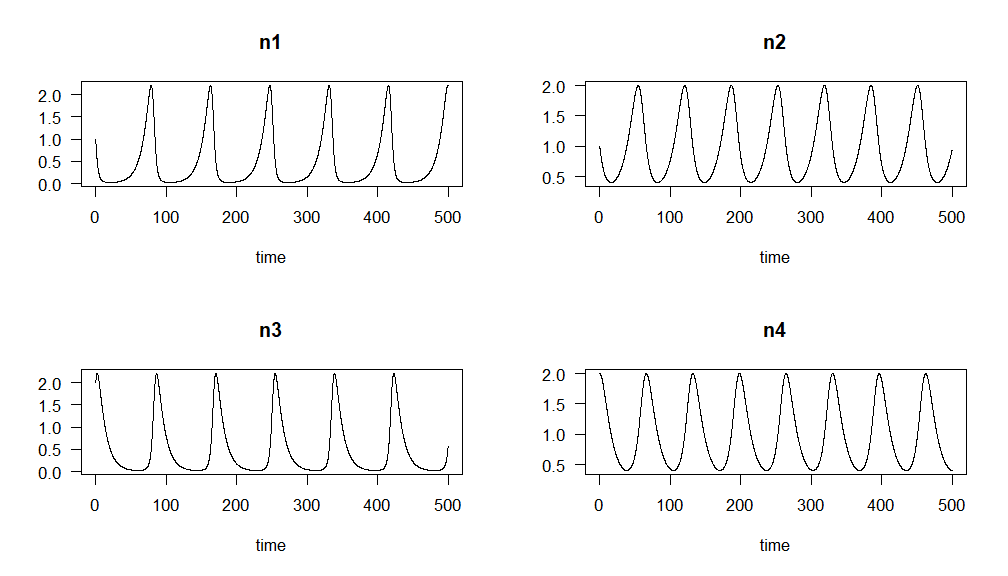
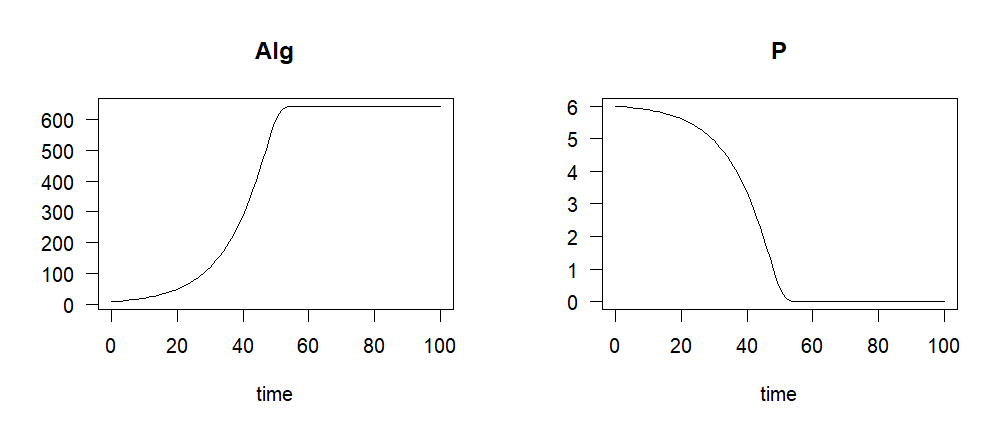
resource limited growth model changed from gramm to mol

diff --git a/docs/index.html b/docs/index.html
@@ -240,8 +240,8 @@ class: page-font-large
 \frac{dX}{dt} = \mbox{import} - \mbox{export}\\
 }$$`
 
-<div id="htmlwidget-67fb4e3abde6edff0009" style="width:1008px;height:288px;" class="grViz html-widget"></div>
-<script type="application/json" data-for="htmlwidget-67fb4e3abde6edff0009">{"x":{"diagram":"digraph feedback {\n         graph [rankdir = \"LR\"]\n           node [shape = box, penwidth=2, fontname = \"Helvetica\"]\n             X\n           node [shape = octagon, penwidth=0.5, style=\"rounded\", fixedsize=25, fontsize=8]\n             Source Sink\n           node [shape = none, fontsize=10]\n             import export\n           edge [penwidth=1.5]\n             Source -> import -> X -> export -> Sink\n         \n}","config":{"engine":"dot","options":null}},"evals":[],"jsHooks":[]}</script>
+<div id="htmlwidget-cd3e49700ce410a5d41b" style="width:1008px;height:288px;" class="grViz html-widget"></div>
+<script type="application/json" data-for="htmlwidget-cd3e49700ce410a5d41b">{"x":{"diagram":"digraph feedback {\n         graph [rankdir = \"LR\"]\n           node [shape = box, penwidth=2, fontname = \"Helvetica\"]\n             X\n           node [shape = octagon, penwidth=0.5, style=\"rounded\", fixedsize=25, fontsize=8]\n             Source Sink\n           node [shape = none, fontsize=10]\n             import export\n           edge [penwidth=1.5]\n             Source -> import -> X -> export -> Sink\n         \n}","config":{"engine":"dot","options":null}},"evals":[],"jsHooks":[]}</script>
 
 `\(X\)` = .gray[any quantity: matter, energy, information]
 
@@ -253,8 +253,8 @@ class: page-font-large
 \frac{dN}{dt} = \mbox{birthhrate} \cdot N - \mbox{deathrate}\cdot N = b \cdot N - d \cdot N = (b-d) \cdot N \\
 \frac{dN}{dt} = r \cdot N\\
 }$$`
-<div id="htmlwidget-271c30fa64eedf151d2f" style="width:1008px;height:288px;" class="grViz html-widget"></div>
-<script type="application/json" data-for="htmlwidget-271c30fa64eedf151d2f">{"x":{"diagram":"digraph feedback {\n         graph [rankdir = \"LR\"]\n           node [shape = box, penwidth=2, fontname = \"Helvetica\"]\n             \"Population N\"\n           node [shape = octagon, penwidth=0.5, style=\"rounded\", fixedsize=25, fontsize=8]\n             Source Sink\n           node [shape = none, fontsize=10]\n             birth death\n           edge [penwidth=1.5]\n             Source -> birth -> \"Population N\" -> death -> Sink\n           edge [penwidth=0.7, tailport = \"n\", headport = \"n\", constraint = false, color=tomato]\n             \"Population N\" -> birth \n             \"Population N\" -> death\n}","config":{"engine":"dot","options":null}},"evals":[],"jsHooks":[]}</script>
+<div id="htmlwidget-9d939027d8071b08e9c8" style="width:1008px;height:288px;" class="grViz html-widget"></div>
+<script type="application/json" data-for="htmlwidget-9d939027d8071b08e9c8">{"x":{"diagram":"digraph feedback {\n         graph [rankdir = \"LR\"]\n           node [shape = box, penwidth=2, fontname = \"Helvetica\"]\n             \"Population N\"\n           node [shape = octagon, penwidth=0.5, style=\"rounded\", fixedsize=25, fontsize=8]\n             Source Sink\n           node [shape = none, fontsize=10]\n             birth death\n           edge [penwidth=1.5]\n             Source -> birth -> \"Population N\" -> death -> Sink\n           edge [penwidth=0.7, tailport = \"n\", headport = \"n\", constraint = false, color=tomato]\n             \"Population N\" -> birth \n             \"Population N\" -> death\n}","config":{"engine":"dot","options":null}},"evals":[],"jsHooks":[]}</script>
 
 
 ---
@@ -486,8 +486,8 @@ class: page-font-huge
 
 
 
-<div id="htmlwidget-0617780368d1a2d2ef41" style="width:1008px;height:144px;" class="grViz html-widget"></div>
-<script type="application/json" data-for="htmlwidget-0617780368d1a2d2ef41">{"x":{"diagram":"digraph feedback {\n         graph [rankdir = \"LR\"]\n           node [shape = box, penwidth=2, fontname = \"Helvetica\"]\n             Nutrient, Algae\n           node [shape = none, fontsize=10]\n             growth\n           edge [penwidth=1.5]\n             Nutrient -> growth -> Algae \n           edge [penwidth=0.7, tailport = \"n\", headport = \"n\", constraint = false, color=tomato]\n             Algae -> growth \n}","config":{"engine":"dot","options":null}},"evals":[],"jsHooks":[]}</script>
+<div id="htmlwidget-5e9807b6ab8a05883ddd" style="width:1008px;height:144px;" class="grViz html-widget"></div>
+<script type="application/json" data-for="htmlwidget-5e9807b6ab8a05883ddd">{"x":{"diagram":"digraph feedback {\n         graph [rankdir = \"LR\"]\n           node [shape = box, penwidth=2, fontname = \"Helvetica\"]\n             Nutrient, Algae\n           node [shape = none, fontsize=10]\n             growth\n           edge [penwidth=1.5]\n             Nutrient -> growth -> Algae \n           edge [penwidth=0.7, tailport = \"n\", headport = \"n\", constraint = false, color=tomato]\n             Algae -> growth \n}","config":{"engine":"dot","options":null}},"evals":[],"jsHooks":[]}</script>
 
 
 ---
@@ -495,8 +495,8 @@ class: page-font-huge
 
 ### System of equations
 
-<div id="htmlwidget-eb43ae7c73c52a16dc1a" style="width:1008px;height:144px;" class="grViz html-widget"></div>
-<script type="application/json" data-for="htmlwidget-eb43ae7c73c52a16dc1a">{"x":{"diagram":"digraph feedback {\n         graph [rankdir = \"LR\"]\n           node [shape = box, penwidth=2, fontname = \"Helvetica\"]\n             Nutrient, Algae\n           node [shape = none, fontsize=10]\n             growth\n           edge [penwidth=1.5]\n             Nutrient -> growth -> Algae \n           edge [penwidth=0.7, tailport = \"n\", headport = \"n\", constraint = false, color=tomato]\n             Algae -> growth \n}","config":{"engine":"dot","options":null}},"evals":[],"jsHooks":[]}</script>
+<div id="htmlwidget-417f22c3753e418a4769" style="width:1008px;height:144px;" class="grViz html-widget"></div>
+<script type="application/json" data-for="htmlwidget-417f22c3753e418a4769">{"x":{"diagram":"digraph feedback {\n         graph [rankdir = \"LR\"]\n           node [shape = box, penwidth=2, fontname = \"Helvetica\"]\n             Nutrient, Algae\n           node [shape = none, fontsize=10]\n             growth\n           edge [penwidth=1.5]\n             Nutrient -> growth -> Algae \n           edge [penwidth=0.7, tailport = \"n\", headport = \"n\", constraint = false, color=tomato]\n             Algae -> growth \n}","config":{"engine":"dot","options":null}},"evals":[],"jsHooks":[]}</script>
 
 ----
 
@@ -530,10 +530,10 @@ model &lt;- function (time, y, parms) {
   })
 }
 y &lt;- c(
-  Alg = 0.1, # algae,      mg/L carbon
-  P   = 0.2  # phosphorus, mg/L P
+  Alg = 10,  # algae,      mol/m3 carbon
+  P   =  5   # phosphorus, mol/m3 P
 ) # in mg/L
-parms &lt;- c(r = 0.1, kP = 5e-3, Y = 41) # Y = C:P mass ratio
+parms &lt;- c(r = 0.1, kP = 0.5, Y = 106) # Y = C:P - Redfield ratio
 ```
 
 #### Where do parameters come from?
@@ -544,12 +544,12 @@ parms &lt;- c(r = 0.1, kP = 5e-3, Y = 41) # Y = C:P mass ratio
 
 ```r
 library("marelac")
-redfield(1, species="P", method="mass")
+redfield(1, species="P")
 ```
 
 ```
-##          C        H        O        N P
-## 1 41.10363 8.558477 56.82016 7.235388 1
+##     C   H   O  N P
+## 1 106 263 110 16 1
 ```
 
 #### Simulate the Model
@@ -567,8 +567,8 @@ plot(out, las=1)
 
 
 ```r
-out1 &lt;- ode(y, times, model, parms =  c(r = 0.2, kP = 5e-3, Y = 41))
-out2 &lt;- ode(y, times, model, parms =  c(r = 0.1, kP = 1e-2, Y = 50))
+out1 &lt;- ode(y, times, model, parms =  c(r = 0.2, kP = 0.5, Y = 106))
+out2 &lt;- ode(y, times, model, parms =  c(r = 0.1, kP = 1.0, Y = 120))
 
 plot(out1, out2, las=1)
 legend("topright", legend=c("Scenario 1", "Scenario 2"), lty=1:2, col=1:2)
@@ -591,8 +591,8 @@ legend("topright", legend=c("Scenario 1", "Scenario 2"), lty=1:2, col=1:2)
 
 ## A standard SIR model
 
-<div id="htmlwidget-6e10ac79c406bf602bfe" style="width:1008px;height:288px;" class="grViz html-widget"></div>
-<script type="application/json" data-for="htmlwidget-6e10ac79c406bf602bfe">{"x":{"diagram":"digraph feedback {\n         graph [rankdir = \"LR\"]\n           node [shape = box, penwidth=2, fontname = \"Helvetica\", style=\"filled\", color=\"dodgerblue\"]\n             S, I, R\n           node [shape = none, fontsize=10, style=\"\"]\n             infection, recovery, mortality\n            node [shape = octagon, penwidth=0.5, style=\"rounded\", fixedsize=25, fontsize=8]\n             X\n           edge [penwidth=1.5]\n             S -> infection -> I\n             I -> recovery -> R\n             I -> mortality\n             mortality -> X\n}","config":{"engine":"dot","options":null}},"evals":[],"jsHooks":[]}</script>
+<div id="htmlwidget-83bcd57d3887cfcb4886" style="width:1008px;height:288px;" class="grViz html-widget"></div>
+<script type="application/json" data-for="htmlwidget-83bcd57d3887cfcb4886">{"x":{"diagram":"digraph feedback {\n         graph [rankdir = \"LR\"]\n           node [shape = box, penwidth=2, fontname = \"Helvetica\", style=\"filled\", color=\"dodgerblue\"]\n             S, I, R\n           node [shape = none, fontsize=10, style=\"\"]\n             infection, recovery, mortality\n            node [shape = octagon, penwidth=0.5, style=\"rounded\", fixedsize=25, fontsize=8]\n             X\n           edge [penwidth=1.5]\n             S -> infection -> I\n             I -> recovery -> R\n             I -> mortality\n             mortality -> X\n}","config":{"engine":"dot","options":null}},"evals":[],"jsHooks":[]}</script>
 
 #### Total population is subdivided into 3 subpopulations
 
@@ -821,8 +821,8 @@ plot(S * X ~ D, data = state, type = "l")
 
 ### Lotka-Volterra's Predator and Prey
 
-<div id="htmlwidget-c8592c0f4f1e0babb239" style="width:1008px;height:288px;" class="grViz html-widget"></div>
-<script type="application/json" data-for="htmlwidget-c8592c0f4f1e0babb239">{"x":{"diagram":"digraph lotka {\n         graph [rankdir = \"LR\"]\n           node [shape = box, penwidth=2, fontname = \"Helvetica\"]\n             Predator, Prey\n           node [shape = octagon, penwidth=0.5, style=\"rounded\", fixedsize=25, fontsize=8]\n             Source Sink\n           node [shape = none, fontsize=10]\n             growth death grazing\n           edge [penwidth=1.5]\n             Source -> growth -> Prey -> grazing -> Predator -> death -> Sink\n           edge [penwidth=0.7, tailport = \"n\", headport = \"n\", constraint = false, color=tomato]\n             Prey -> growth\n             Predator -> grazing\n           edge [penwidth=0.7, tailport = \"s\", headport = \"s\", constraint = false, color=tomato]\n             Prey -> grazing\n             Predator -> death\n\n}","config":{"engine":"dot","options":null}},"evals":[],"jsHooks":[]}</script>
+<div id="htmlwidget-42baea4179459fd1174e" style="width:1008px;height:288px;" class="grViz html-widget"></div>
+<script type="application/json" data-for="htmlwidget-42baea4179459fd1174e">{"x":{"diagram":"digraph lotka {\n         graph [rankdir = \"LR\"]\n           node [shape = box, penwidth=2, fontname = \"Helvetica\"]\n             Predator, Prey\n           node [shape = octagon, penwidth=0.5, style=\"rounded\", fixedsize=25, fontsize=8]\n             Source Sink\n           node [shape = none, fontsize=10]\n             growth death grazing\n           edge [penwidth=1.5]\n             Source -> growth -> Prey -> grazing -> Predator -> death -> Sink\n           edge [penwidth=0.7, tailport = \"n\", headport = \"n\", constraint = false, color=tomato]\n             Prey -> growth\n             Predator -> grazing\n           edge [penwidth=0.7, tailport = \"s\", headport = \"s\", constraint = false, color=tomato]\n             Prey -> grazing\n             Predator -> death\n\n}","config":{"engine":"dot","options":null}},"evals":[],"jsHooks":[]}</script>
 
 * state diagram, cycles
 * damped cycle if we introduce a Monod term
@@ -834,8 +834,8 @@ plot(S * X ~ D, data = state, type = "l")
 
 ### Lotka-Volterra Model
 
-<div id="htmlwidget-8ad139a4290df2a32dc4" style="width:1008px;height:144px;" class="grViz html-widget"></div>
-<script type="application/json" data-for="htmlwidget-8ad139a4290df2a32dc4">{"x":{"diagram":"digraph lotka {\n         graph [rankdir = \"LR\"]\n           node [shape = box, penwidth=2, fontname = \"Helvetica\"]\n             Predator, Prey\n           node [shape = octagon, penwidth=0.5, style=\"rounded\", fixedsize=25, fontsize=8]\n             Source Sink\n           node [shape = none, fontsize=10]\n             growth death grazing\n           edge [penwidth=1.5]\n             Source -> growth -> Prey -> grazing -> Predator -> death -> Sink\n           edge [penwidth=0.7, tailport = \"n\", headport = \"n\", constraint = false, color=tomato]\n             Prey -> growth\n             Predator -> grazing\n           edge [penwidth=0.7, tailport = \"s\", headport = \"s\", constraint = false, color=tomato]\n             Prey -> grazing\n             Predator -> death\n\n}","config":{"engine":"dot","options":null}},"evals":[],"jsHooks":[]}</script>
+<div id="htmlwidget-671ee126e2ed35518ed7" style="width:1008px;height:144px;" class="grViz html-widget"></div>
+<script type="application/json" data-for="htmlwidget-671ee126e2ed35518ed7">{"x":{"diagram":"digraph lotka {\n         graph [rankdir = \"LR\"]\n           node [shape = box, penwidth=2, fontname = \"Helvetica\"]\n             Predator, Prey\n           node [shape = octagon, penwidth=0.5, style=\"rounded\", fixedsize=25, fontsize=8]\n             Source Sink\n           node [shape = none, fontsize=10]\n             growth death grazing\n           edge [penwidth=1.5]\n             Source -> growth -> Prey -> grazing -> Predator -> death -> Sink\n           edge [penwidth=0.7, tailport = \"n\", headport = \"n\", constraint = false, color=tomato]\n             Prey -> growth\n             Predator -> grazing\n           edge [penwidth=0.7, tailport = \"s\", headport = \"s\", constraint = false, color=tomato]\n             Prey -> grazing\n             Predator -> death\n\n}","config":{"engine":"dot","options":null}},"evals":[],"jsHooks":[]}</script>
 
 `\begin{align}
 \frac{dPrey}{dt} &amp;= \mbox{growth} - \mbox{grazing}\\
